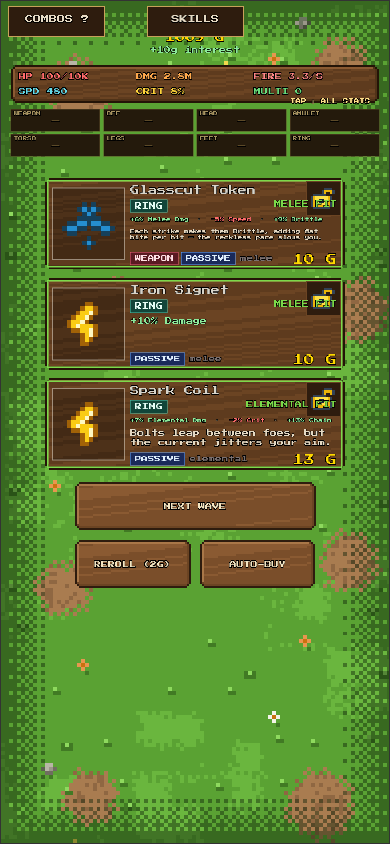
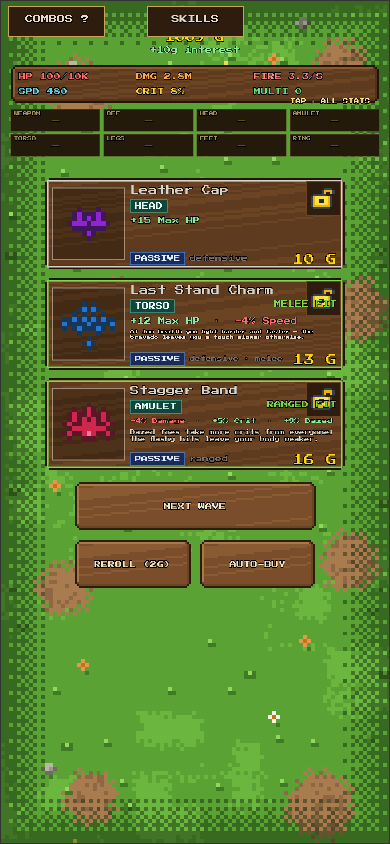
fix: Running Shoes slot gap + qa-execute determinism hardening
- catalog.ts: add slot:'feet' to movement_speed_t2 (Running Shoes) —
  missed item from the R1 gear-named-trinket audit (Jul 2026); the T1
  counterpart Worn Boots already had slot:'feet', Running Shoes did not.
  Closes the R1 gap (now 19/19 gear-named trinkets correctly slotted).

- qa-execute.mjs: clear g.meleeAttacks before each melee-execute test
  (checks 7 & 8). updateAuxWeapons runs inside updatePickupsAndCleanup
  AFTER updateMeleeCollisions, so its new swing survives the frame alive
  in g.meleeAttacks. If the aux attack happens to aim at the same enemy
  the test targets, results were non-deterministic. Clearing the array
  before the push makes both checks deterministic.

- BALANCE-item-classification-audit.md: update R1 status to reflect fix.

All QA: catalog-integrity CLEAN, stats-parity 2196/0, execute 11/11,
shop-8slot 29/29, equipment-manage 32/32, melee-styles 19/19, builddiv PASS.

diff --git a/frontend/src/items/catalog.ts b/frontend/src/items/catalog.ts
@@ -142,6 +142,7 @@ export const ITEM_CATALOG: Item[] = [
     },
     {
       id: 'movement_speed_t2',
+      slot: 'feet',
       name: 'Running Shoes',
       description: '+20% move speed, +10% dodge',
       rarity: 'rare',

diff --git a/BALANCE-item-classification-audit.md b/BALANCE-item-classification-audit.md
@@ -1,7 +1,7 @@
 # Item classification & balance audit — trinket vs equip
 
 **Date:** 2026-07-06 (night) · **Trigger:** Felix — *"review all existing items to see if they should stay as trinkets or be equip items, and review the balance of the game in multiple ways."*
-**Status:** R1 COMPLETE (2026-07-12) — all 18 gear-named trinkets correctly slotted (ring/amulet/feet/torso); 4 gloves/gauntlets intentionally held pending `hands` slot decision from Felix. R2/R4 await Felix's build-feel call.
+**Status:** R1 COMPLETE (2026-07-12, Running Shoes gap patched 2026-08-28) — all 19 gear-named trinkets correctly slotted (ring/amulet/feet/torso); 4 gloves/gauntlets intentionally held pending `hands` slot decision from Felix. R2/R4 await Felix's build-feel call.
 
 **One-line verdict:** The trinket/equip split is not just cosmetic — it *is* the missing structural balance lever. Today **~80% of items are unlimited-stacking trinkets**, and the build-defining *offense multipliers* live almost entirely on them, so the multiplicative-offense runaway (Felix's 2.3M/projectile) is fed by design. Promoting the multiplier items into the 8 equip slots bounds the stack by slot count instead of by wallet — the honest complement to the post-hoc damage soft-knee.
 
